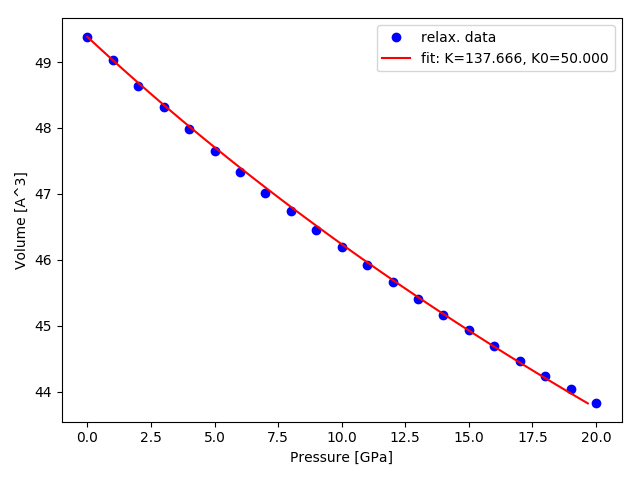
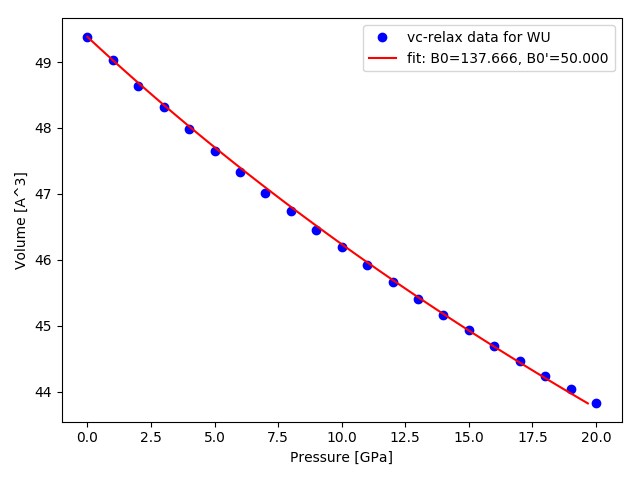
Updating code an images for 3rd problem

Changed region(s): [[0.5625, 0.0625, 0.9375, 0.1562]]

diff --git a/3_bulk_modulus/plot.eos.relax.py b/3_bulk_modulus/plot.eos.relax.py
@@ -8,7 +8,7 @@ import numpy as np
 from matplotlib import pyplot as plt
 from scipy.optimize import curve_fit
 
-structure = 'WU'
+structure = 'RS'
 
 def eos(V,b,bd):
     V0_m = V[0]*np.ones(len(V))
@@ -42,8 +42,8 @@ print('Derivation of bulk modulus at p=0:\t{}'.format(popt[1]))
 v_calc = np.linspace(V[0],V[-1],101)
 p_calc = eos(v_calc,*popt)
 
-plt.plot(p,V,'bo',label='relax. data')
-plt.plot(p_calc,v_calc,'r-',label='fit: K={:.3f}, K0={:.3f}'.format(*popt))
+plt.plot(p,V,'bo',label='vc-relax data for {}'.format(structure))
+plt.plot(p_calc,v_calc,'r-',label='fit: B0={:.3f}, B0\'={:.3f}'.format(*popt))
 plt.xlabel('Pressure [GPa]')
 plt.ylabel('Volume [A^3]')
 plt.legend()
